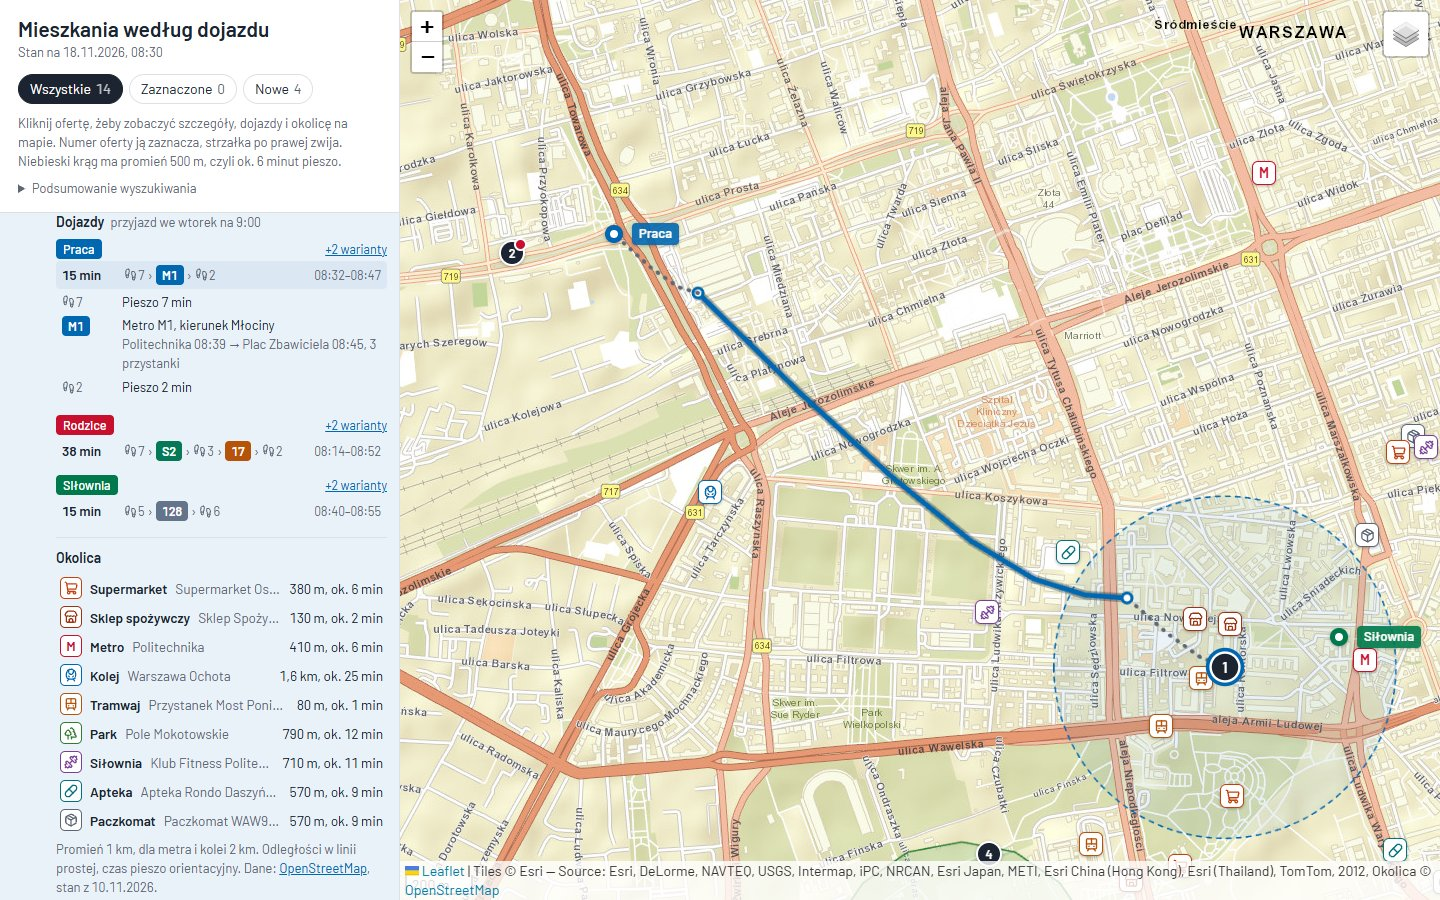
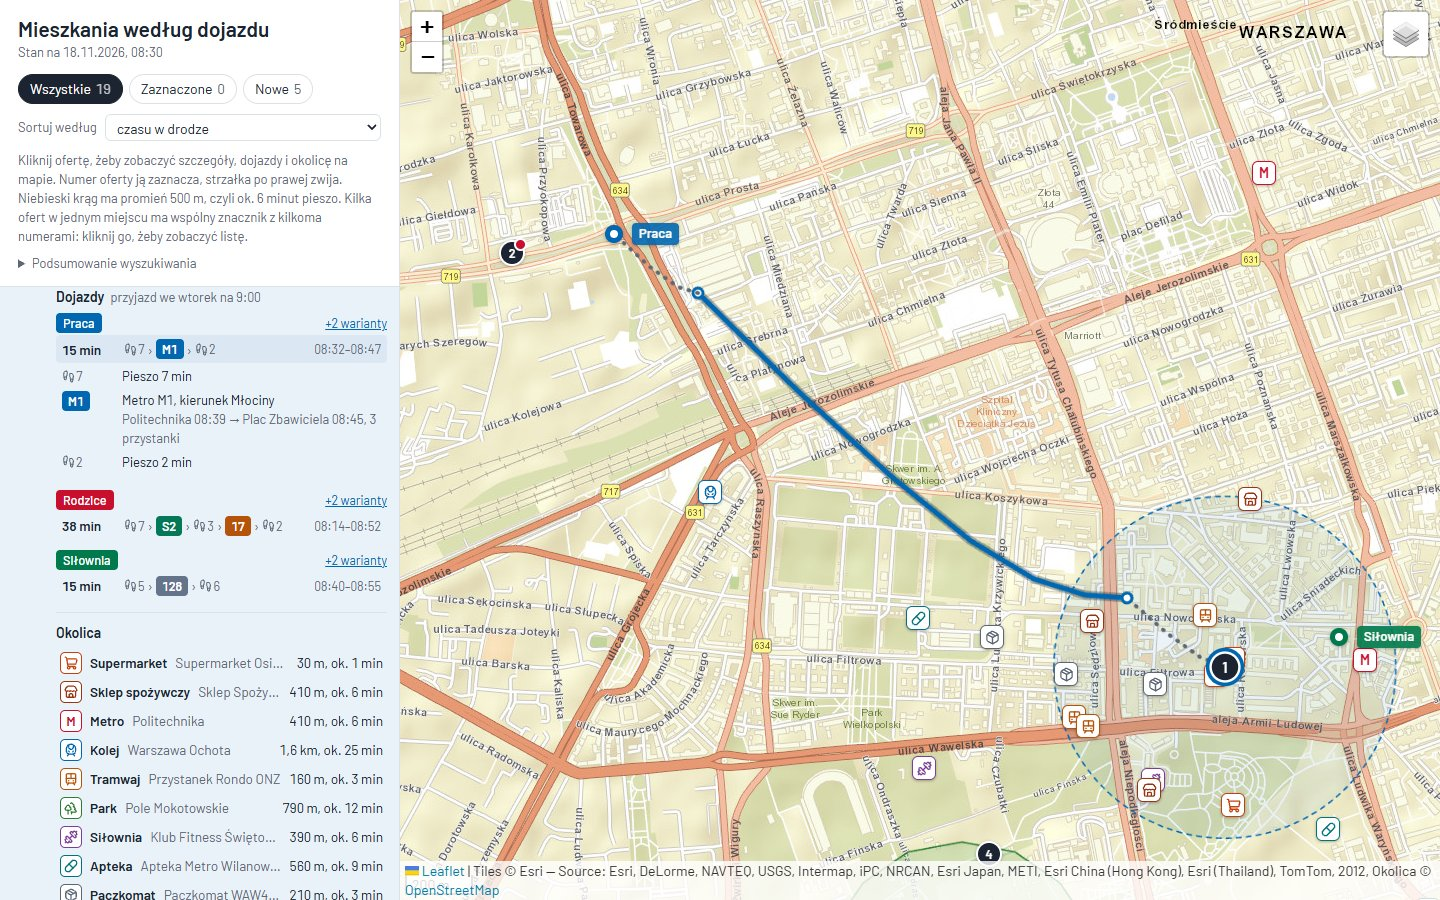
docs: README i zrzuty ekranu ze wspólnym znacznikiem i sortowaniem
- nowa sekcja README o sortowaniu listy i wspólnym znaczniku ofert
  z jednego miejsca, z nowym zrzutem wspolne-miejsce.jpg
- zrzuty odświeżone na aktualnym UI
- przykładowy budynek z kilkoma lokalami przeniesiony na Mokotów,
  żeby wspólny znacznik nie zasłaniał etykiety Praca

diff --git a/docs/mock/generuj_mock.py b/docs/mock/generuj_mock.py
@@ -43,10 +43,10 @@ OFFERS = [
     ("3 pokoje na Bielanach, metro Słodowiec", 52.2765, 20.9629, 4100, 720, 58, 3, 1981, "3", False, True),
     ("Kawalerka w apartamentowcu, Praga Północ", 52.2533, 21.0353, 3400, 600, 30, 1, 2018, "9", False, False),
     # kilka lokali w jednym budynku: na mapie wspólny znacznik
-    ("2 pokoje w tej samej inwestycji, Wola", 52.2297, 20.9792, 5200, 950, 51, 2, 2019, "6", False, True),
-    ("Kawalerka w inwestycji przy Rondzie Daszyńskiego", 52.2297, 20.9792, 3900, 800, 32, 1, 2019, "3", False, False),
-    ("3 pokoje z tarasem, Wola", 52.2297, 20.9792, 6100, 1100, 66, 3, 2019, "12", False, False),
-    ("Mieszkanie na wysokim piętrze, Wola", 52.2298, 20.9793, 4600, 880, 43, 2, 2019, "10", False, False),
+    ("2 pokoje w tym samym budynku, Mokotów", 52.1925, 21.0275, 5200, 950, 51, 2, 2019, "6", False, True),
+    ("Kawalerka z widokiem na Morskie Oko", 52.1925, 21.0275, 3900, 800, 32, 1, 2019, "3", False, False),
+    ("3 pokoje z tarasem, Mokotów", 52.1925, 21.0275, 6100, 1100, 66, 3, 2019, "12", False, False),
+    ("Mieszkanie na wysokim piętrze, Mokotów", 52.1926, 21.0276, 4600, 880, 43, 2, 2019, "10", False, False),
     ("2 pokoje w kamienicy obok, Powiśle", 52.2365, 21.0272, 4400, 580, 47, 2, 1912, "2", True, False),
 ]
 

diff --git a/docs/mock/zrzuty.py b/docs/mock/zrzuty.py
@@ -48,6 +48,16 @@ def main():
             "el => el.scrollIntoView({block: 'start'})")
         settle(page)
         page.screenshot(path=OUT / "okolica.jpg", quality=85)
+
+        # sortowanie po cenie i wspólny znacznik kilku lokali w jednym budynku
+        page.reload()
+        settle(page, 1500)
+        page.select_option("#sort", "price")
+        page.evaluate("map.setView([52.1925, 21.0275], 16)")
+        settle(page)
+        page.locator(".stack").first.click()
+        settle(page, 1000)
+        page.screenshot(path=OUT / "wspolne-miejsce.jpg", quality=85)
         browser.close()
     print(f"Zapisano zrzuty w {OUT}")
 

diff --git a/README.md b/README.md
@@ -4,7 +4,7 @@ Ranking ofert mieszkań z Otodom według łącznego czasu, który co tydzień sp
 
 Wynik to tabela (Markdown i CSV) oraz strona `mapa.html` z listą ofert obok mapy. Przy każdej ofercie są zdjęcia, rzut, warianty przejazdu z przesiadkami i najbliższe sklepy, przystanki i parki.
 
-![Lista ofert uszeregowana według tygodniowego czasu w drodze, obok mapa Warszawy z ponumerowanymi ofertami i trzema miejscami: Praca, Siłownia, Rodzice](docs/img/lista-i-mapa.jpg)
+![Lista ofert uszeregowana według tygodniowego czasu w drodze, z wyborem sortowania, obok mapa Warszawy z ponumerowanymi ofertami, wspólnym znacznikiem kilku ofert z jednego budynku i trzema miejscami: Praca, Siłownia, Rodzice](docs/img/lista-i-mapa.jpg)
 
 <sub>Wszystkie zrzuty pokazują fikcyjne dane wygenerowane przez <code>docs/mock/generuj_mock.py</code>: oferty, zdjęcia, rzuty i trasy są wymyślone.</sub>
 
@@ -155,11 +155,17 @@ Po kliknięciu oferty mapa przybliża się do niej i rysuje okrąg o promieniu 5
 
 ![Sekcja Okolica: najbliższy supermarket, sklep, metro, kolej, tramwaj, park, siłownia, apteka i paczkomat z odległościami](docs/img/okolica.jpg)
 
-Pozostałe funkcje:
+### Sortowanie i kilka ofert w jednym miejscu
+
+**Sortowanie.** Lista „Sortuj według” nad ofertami układa je według czasu w drodze (domyślnie), ceny, ceny z czynszem, ceny za m² albo daty dodania, od najnowszych. Numery ofert zostają z rankingu dojazdów, więc przy każdym sortowaniu znaczą to samo na liście i na mapie. Oferty bez danego parametru trafiają na koniec, a przy równych wartościach wyżej jest oferta z krótszym dojazdem. Cenę i inne kryteria wyszukiwania zawężasz w `otodom_url`, a strona tylko zmienia kolejność.
+
+**Wspólny znacznik.** Oferty oddalone od siebie o najwyżej 25 m, np. kilka lokali w jednym budynku albo w jednej inwestycji, dzielą na mapie jeden znacznik. Numery są na nim ułożone jak talia kart: do trzech numerów, a przy większej liczbie dwa pierwsze i „+N”. Kolejność numerów na znaczniku jest taka sama jak na liście, a rozwinięta oferta jest na nim zawsze widoczna. Kliknięcie znacznika otwiera listę ofert z tego miejsca z czasem w drodze, ceną, metrażem i liczbą pokoi, a wybór pozycji rozwija ofertę na liście. Karta oferty ma oznaczenie „W tym samym miejscu” z numerami pozostałych.
+
+![Lista posortowana według ceny, a na mapie wspólny znacznik pięciu ofert z jednego budynku na Mokotowie z otwartą listą tych ofert](docs/img/wspolne-miejsce.jpg)
+
+### Pozostałe funkcje
 
 - Kliknięcie numeru oferty ją zaznacza. Filtry u góry pokazują wszystkie oferty, zaznaczone albo nowe.
-- Listę można posortować według czasu w drodze (domyślnie), ceny, ceny z czynszem, ceny za m² albo daty dodania. Numery ofert zostają z rankingu dojazdów, więc na liście i mapie znaczą to samo przy każdym sortowaniu. Oferty bez danego parametru trafiają na koniec.
-- Oferty oddalone od siebie o najwyżej 25 m, np. kilka lokali w jednym budynku, mają na mapie wspólny znacznik z numerami ułożonymi jak talia kart: do trzech numerów, a przy większej liczbie dwa i „+N”. Kliknięcie znacznika otwiera listę tych ofert, a wybór pozycji rozwija ofertę na liście. Karta oferty ma oznaczenie „W tym samym miejscu” z numerami pozostałych.
 - Szerokość listy zmienisz, przeciągając jej krawędź (albo strzałkami na klawiaturze). Podwójne kliknięcie przywraca domyślną.
 - Zaznaczenia, sortowanie i szerokość listy zapamiętuje przeglądarka (`localStorage`), więc zostają po ponownym wygenerowaniu strony.
 - Przełącznik warstw w prawym górnym rogu mapy zmienia podkład na zdjęcia satelitarne.
